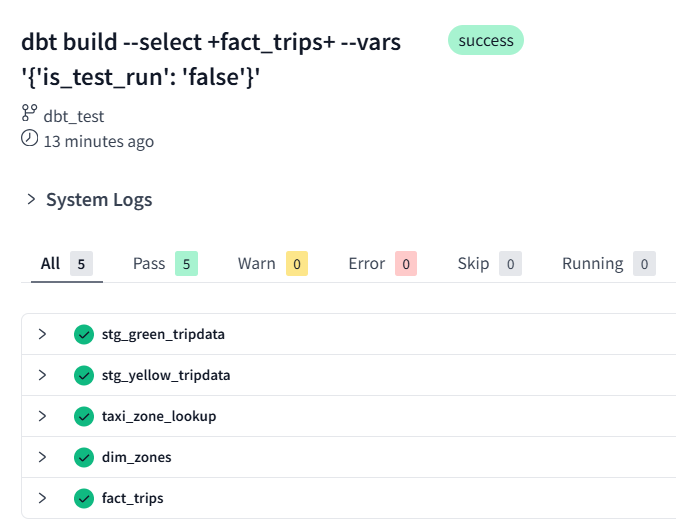
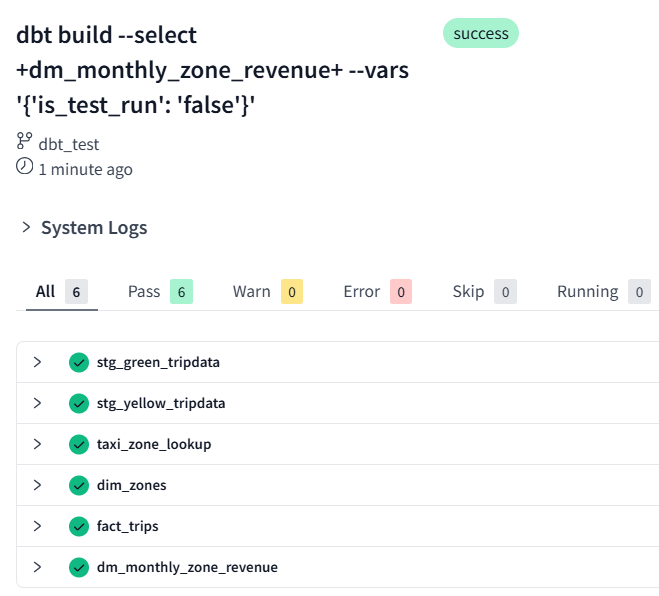
updated test+documentation notes for MOD4

diff --git a/Module - 4/notes/notes.md b/Module - 4/notes/notes.md
@@ -19,6 +19,13 @@
     - [Model 2 - stg_yellow_tripdata.sql](#model-1-stg_yellow_tripdatasql)
     - [Lineage View of Staging models](#lineage-view)
 - [Developing Core Models - Fact & Dimensions]
+    - [Seed: taxi_zone_lookup.csv](#seed-taxi_zone_lookupcsv)
+    - [Model 1 - dim_zones.sql](#model-1-dim_zonessql)
+    - [Model 2 - fact_trips.sql](#model-2-fact_tripssql)
+    - [Model 3 - dm_monthly_zone_revenue.sql]()
+    - [Lineage View of Core + Staging models](#lineage-view-1)
+    - [Build Results](#build-result)
+- [Testing & Documentation]()
 - [Important Notes](#important-notes)
 - [Troubleshooting](#troubleshooting-errors)
 
@@ -533,6 +540,52 @@ Run the command **dbt build --m <model.sql> --var `is_test_run: False`** and cha
 
 This method, often referred to as a "dev limit," is highly recommended for optimizing development workflows. By default, you’ll have faster and cheaper queries during development, but the limit can easily be removed when working with the full production data.
 
+6. **`Tests`**
+
+DBT tests are assumptions we make about our data. They're essentially statements that select data we don’t want to have. If the query produces results, the test fails and stops execution immediately, preventing the building of dependent models. For example, when building a project, if the query returns no results, the test passes, the data is good, and no alerts are triggered.
+
+These assumptions are primarily defined in YAML files like our schema.yml and are compiled into SQL code. DBT comes with four out-of-the-box tests:
+
+- `Unique Test` - Ensures the uniqueness of a field in the data model.
+- `Not Null Test` - Verifies that a field does not contain null values.
+- `Accepted Values Test` - Checks if a field contains only predefined valid values.
+- `Foreign Key Test` - Ensures relationships between fields in different tables are valid.
+
+Let's look into three cases here:
+
+For example, the "Accepted Values" test might ensure that a field like payment_type only contains values 1, 2, 3, 4, or 5. If it’s outside this `range of values`, the test will fail:
+
+```sql
+  - name: payment_type
+    description: A numeric code signifying how the passenger paid for the trip.
+    tests:
+      - accepted_values:
+          values: [1,2,3,4,5]
+          severity: warn
+```
+Another test ensures that pickup_location has a `valid relationship` to the ref_taxi_lookup table, verifying it corresponds to a valid taxi zone:
+
+```sql
+  - name: Pickup_locationid
+    description: locationid where the meter was engaged.
+    tests:
+      - relationships:
+          to: ref('taxi_zone_lookup')
+          field: locationid
+          severity: warn
+```
+Similarly, trip_id must be `unique` and `not null`, as it’s the primary key:
+
+```sql 
+  - name: tripid
+    description: Primary key for this table, generated with a concatenation of vendorid+pickup_datetime
+    tests:
+        - unique:
+            severity: warn
+        - not_null:
+            severity: warn
+```
+
 ### Developing staging models
 
 We will now create our first model.
@@ -656,7 +709,8 @@ Similarly, create another model [stg_yellow_tripdata.sql](../dbt_taxi_data/model
 
 Create a `Core` folder inside `models`. Here, we create fact and dim models, and also, upload/setup `taxi_zone_lookup.csv` in `seeds` as there's no source defined for this. 
 
-#### **Seed: `taxi_zone_lookup.csv`**
+#### **Seed: taxi_zone_lookup.csv**
+
 - Copy `taxi_zone_lookup.csv` into the seeds directory.
 - Run `dbt build --select taxi_zone_lookup.csv`. 
 
@@ -754,6 +808,43 @@ We do three things here:
  - Disregard the data entries where the `Borough` is `Unknown`. 
  - `Inner join` on `dim_zones` twice, once for `pickup_locationid` and one for `dropoff_locationid`.
 
+#### **Model 3: dm_monthly_zones_revenue.sql**
+
+This is a dbt model that creates a table summarizing revenue-related metrics for trips data as a table selecting data from our previous dbt model called fact_trips. It will include monthly revenue metrics per pickup zone and service type, various fare components, trip counts, and averages, allowing us to analyse revenue trends, performance and other trip details. 
+
+```sql 
+{{ config(materialized='table') }}
+
+with trips_data as (
+    select * from {{ ref('fact_trips') }}
+)
+    select 
+    -- Reveneue grouping 
+    pickup_zone as revenue_zone,
+    {{ dbt.date_trunc("month", "pickup_datetime") }} as revenue_month, 
+
+    service_type, 
+
+    -- Revenue calculation 
+    sum(fare_amount) as revenue_monthly_fare,
+    sum(extra) as revenue_monthly_extra,
+    sum(mta_tax) as revenue_monthly_mta_tax,
+    sum(tip_amount) as revenue_monthly_tip_amount,
+    sum(tolls_amount) as revenue_monthly_tolls_amount,
+    sum(ehail_fee) as revenue_monthly_ehail_fee,
+    sum(improvement_surcharge) as revenue_monthly_improvement_surcharge,
+    sum(total_amount) as revenue_monthly_total_amount,
+
+    -- Additional calculations
+    count(tripid) as total_monthly_trips,
+    avg(passenger_count) as avg_monthly_passenger_count,
+    avg(trip_distance) as avg_monthly_trip_distance
+
+    from trips_data
+    group by 1,2,3
+
+```
+
 #### **Lineage View** 
 
 ![alt text](./images/ae29.png)
@@ -776,6 +867,23 @@ Now, we need to specify to dbt, after it's identified the connections between th
 ```
 
 Note that we want the entirety of data available in our BQ, and not just the first 100. So, we override the macro value with `False` in the dbt run command, so the value `False` is taken into consideration when building both the staging models. 
+
+### Testing & Documentation 
+
+To understand the concept of **tests** and how they're executed, check [this](#key-concepts-and-setup-of-dbt-models).  
+
+`codegen package` aims to make testing easier for you, one of the many capabilities of the package macros include:
+
+Macro:
+
+![alt text](./images/ae32.png)
+
+Result:
+
+![alt text](./images/ae33.png)
+
+This gives you the `model` details and you can directly copy+paste it into to your schema to further define contraints and checks on each field of data/column as per the tests. 
+
 
 ### Important notes
 
